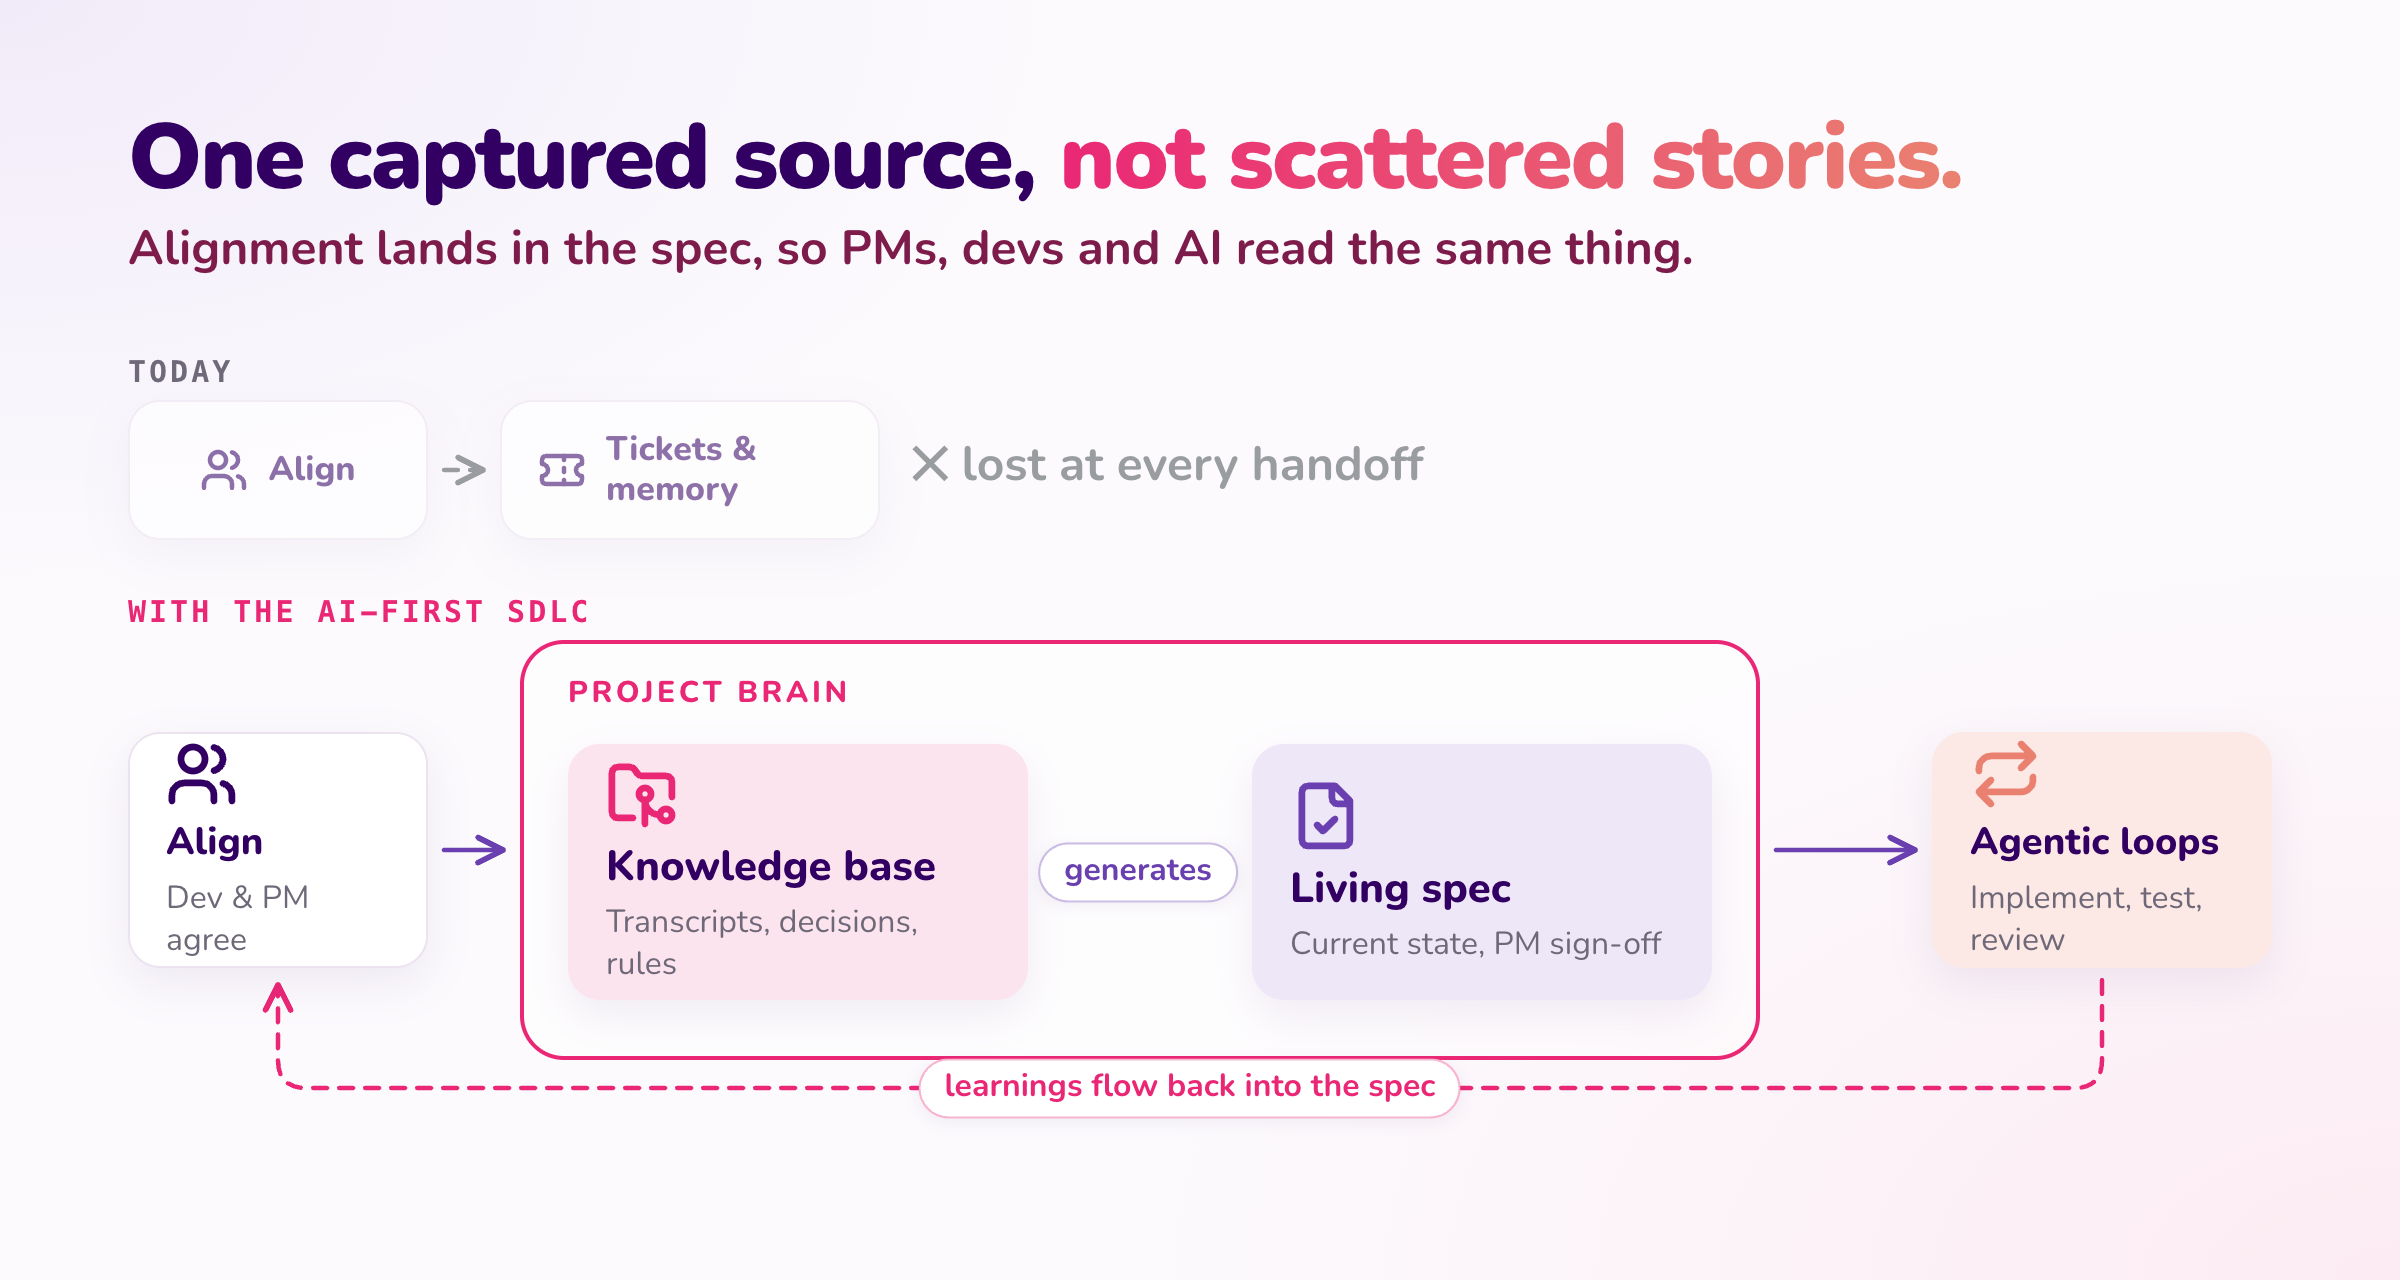
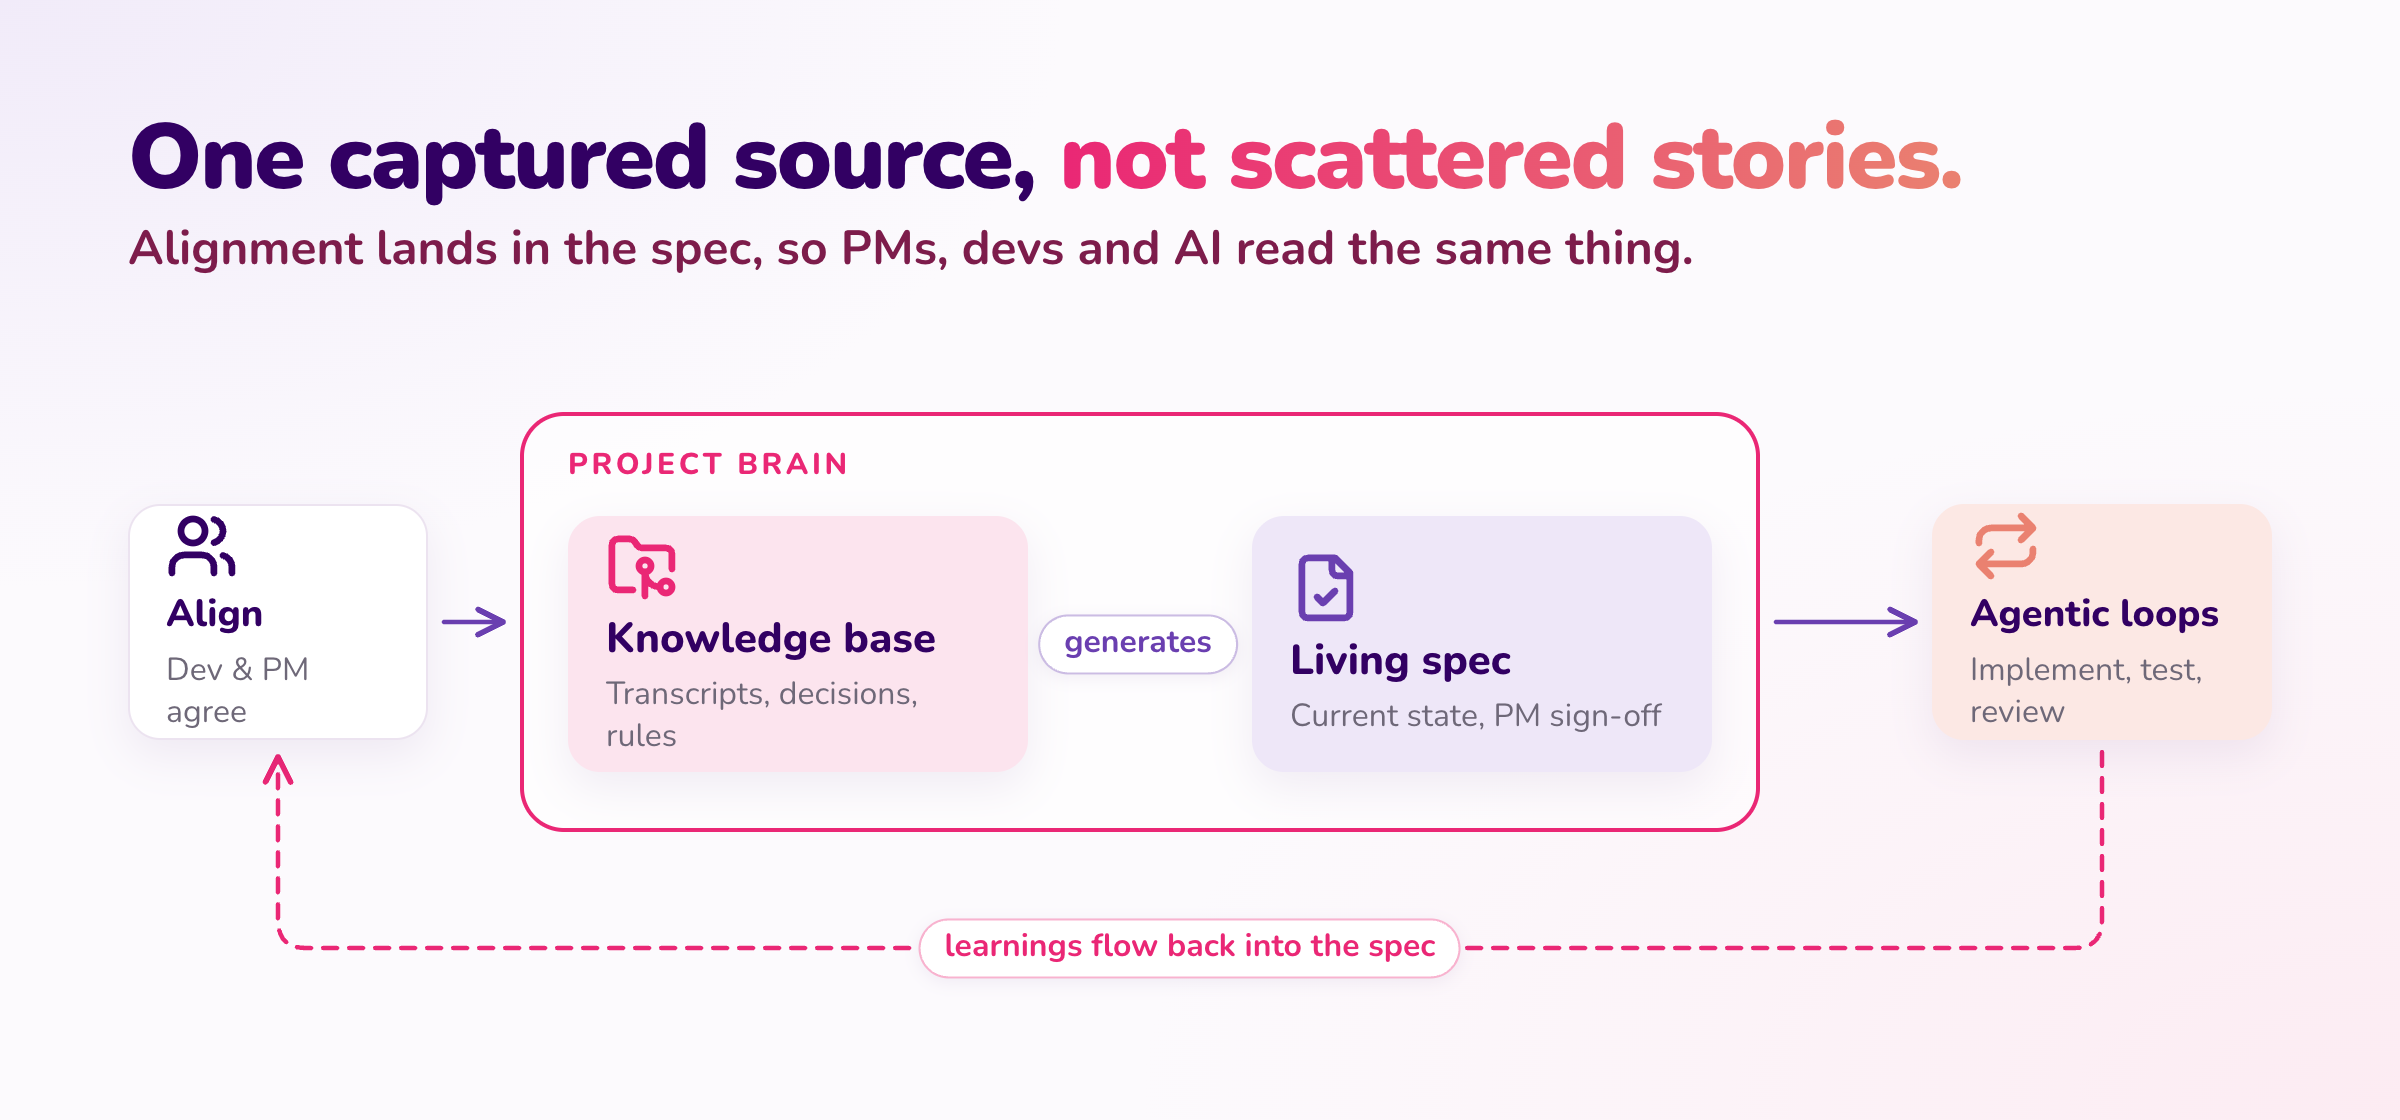
docs: label the traditional SDLC, focus the flow on the new approach

diff --git a/image-src/ai-first-sdlc/ai-sdlc-flow.html b/image-src/ai-first-sdlc/ai-sdlc-flow.html
@@ -11,22 +11,17 @@
 .k .label{font-size:21px}
 .k .note{font-size:16px}
 .x{position:absolute;font-size:24px;color:var(--gray);font-weight:700}
-</style></head><body data-size="1200x640"><div class="frame">
+</style></head><body data-size="1200x560"><div class="frame">
 <div class="title">One captured source, <span class="accent">not scattered stories.</span></div>
 <div class="subtitle">Alignment lands in the spec, so PMs, devs and AI read the same thing.</div>
 
-<div class="tag" style="top:176px;color:var(--muted)">Today</div>
-<div class="card st muted" id="t1" style="position:absolute;left:64px;top:200px;height:70px;width:150px;flex-direction:row;align-items:center;gap:10px"><span class="icon" style="width:24px;height:24px"><i data-lucide="users"></i></span><div class="label" style="font-size:17px">Align</div></div>
-<div class="card st muted" id="t2" style="position:absolute;left:250px;top:200px;height:70px;width:190px;flex-direction:row;align-items:center;gap:10px"><span class="icon" style="width:24px;height:24px"><i data-lucide="ticket"></i></span><div class="label" style="font-size:17px">Tickets &amp; memory</div></div>
-<div class="x" style="left:456px;top:216px">✕ lost at every handoff</div>
 
-<div class="tag" style="top:296px;color:var(--accent)">With the AI-First SDLC</div>
-<div class="card st" id="a" style="position:absolute;left:64px;top:366px;width:150px"><span class="icon"><i data-lucide="users"></i></span><div class="label">Align</div><div class="note">Dev &amp; PM agree</div></div>
-<div class="brain" id="brain" style="left:260px;top:320px;width:620px;height:210px"><div class="bt">Project Brain</div></div>
-<div class="card k tint-accent" id="kb" style="left:284px;top:372px"><span class="icon accent"><i data-lucide="folder-git-2"></i></span><div class="label">Knowledge base</div><div class="note">Transcripts, decisions, rules</div></div>
-<div class="card k tint-info" id="sp" style="left:626px;top:372px"><span class="icon info"><i data-lucide="file-check"></i></span><div class="label">Living spec</div><div class="note">Current state, PM sign-off</div></div>
-<div class="card st tint-success" id="loop" style="position:absolute;left:966px;top:366px;width:170px"><span class="icon success"><i data-lucide="repeat"></i></span><div class="label">Agentic loops</div><div class="note">Implement, test, review</div></div>
+<div class="card st" id="a" style="position:absolute;left:64px;top:252px;width:150px"><span class="icon"><i data-lucide="users"></i></span><div class="label">Align</div><div class="note">Dev &amp; PM agree</div></div>
+<div class="brain" id="brain" style="left:260px;top:206px;width:620px;height:210px"><div class="bt">Project Brain</div></div>
+<div class="card k tint-accent" id="kb" style="left:284px;top:258px"><span class="icon accent"><i data-lucide="folder-git-2"></i></span><div class="label">Knowledge base</div><div class="note">Transcripts, decisions, rules</div></div>
+<div class="card k tint-info" id="sp" style="left:626px;top:258px"><span class="icon info"><i data-lucide="file-check"></i></span><div class="label">Living spec</div><div class="note">Current state, PM sign-off</div></div>
+<div class="card st tint-success" id="loop" style="position:absolute;left:966px;top:252px;width:170px"><span class="icon success"><i data-lucide="repeat"></i></span><div class="label">Agentic loops</div><div class="note">Implement, test, review</div></div>
 </div>
-<script>LINKS=[{from:"t1",to:"t2",color:"var(--gray)",dashed:true},{from:"a",to:"brain"},{from:"kb",to:"sp",label:"generates"},{from:"brain",to:"loop"},
-{from:"loop",to:"a",path:"u",dashed:true,drop:60,color:"var(--accent)",label:"learnings flow back into the spec"}];</script>
+<script>LINKS=[{from:"a",to:"brain"},{from:"kb",to:"sp",label:"generates"},{from:"brain",to:"loop"},
+{from:"loop",to:"a",path:"u",dashed:true,drop:104,color:"var(--accent)",label:"learnings flow back into the spec"}];</script>
 </body></html>

diff --git a/image-src/ai-first-sdlc/handoff-chain.html b/image-src/ai-first-sdlc/handoff-chain.html
@@ -8,7 +8,8 @@
 .warn .icon svg{stroke:var(--accent-deep)}
 .warn p{font-size:19px;font-weight:700;color:var(--accent-deep);line-height:1.35}
 </style></head><body data-size="1200x610"><div class="frame">
-<div class="title">Idea to shipped code, today: <span class="accent">a chain of handoffs.</span></div>
+<div class="eyebrow">The traditional SDLC</div>
+<div class="title">Idea to shipped code: <span class="accent">a chain of handoffs.</span></div>
 <div class="subtitle">Context is scattered, so every person reassembles it by hand.</div>
 <div class="row">
  <div class="card st" id="a"><span class="num">1</span><div class="label">Research</div><div class="note">PM gathers the need</div></div>

diff --git a/src/data/blog/ai-first-sdlc.md b/src/data/blog/ai-first-sdlc.md
@@ -42,7 +42,7 @@ Code generation and requirements capture have to speed up *together*. If require
 
 ### What it takes to build something new
 
-This is the key mental model behind the whole approach. Every feature moves the product from **the current state** (how it behaves today) to **the future state** (how it should behave once this ships), and the model needs to see both.
+This is the mental model that guides the philosophy behind the approach. Every feature moves the product from **the current state** (how it behaves today) to **the future state** (how it should behave once this ships), and the model needs to see both.
 
 ![Every feature is a move between two states: the current state and the future state. The gap between them is the intent, which is what you hand the model](../../assets/images/posts/ai-first-sdlc/current-future-state.png)
 
@@ -64,7 +64,7 @@ There's also a practical problem. Ask Claude how a feature works in a complex pr
 
 To ship anything, the AI needs the requirements currently running in production and the future state. Today that context is scattered across PMs' heads, Slack and Teams threads, Jira tickets, Confluence pages and meeting notes. So every person pieces it together by hand, meeting after meeting.
 
-![Idea to shipped code today, a chain of five handoffs: research, requirements and alignment, Jira epics and stories, understanding the current state, implementation, with a loop back whenever something new is learned](../../assets/images/posts/ai-first-sdlc/handoff-chain.png)
+![The traditional SDLC, idea to shipped code as a chain of five handoffs: research, requirements and alignment, Jira epics and stories, understanding the current state, implementation, with a loop back whenever something new is learned](../../assets/images/posts/ai-first-sdlc/handoff-chain.png)
 
 The traditional flow goes like this. You gather requirements, write them up as stories and epics, then start exploring the current state in the codebase. There you find the requirements don't match what's actually there, or the story needs reframing to balance business value against technical debt. So you go back and forth with product or dev to sort it out.
 
